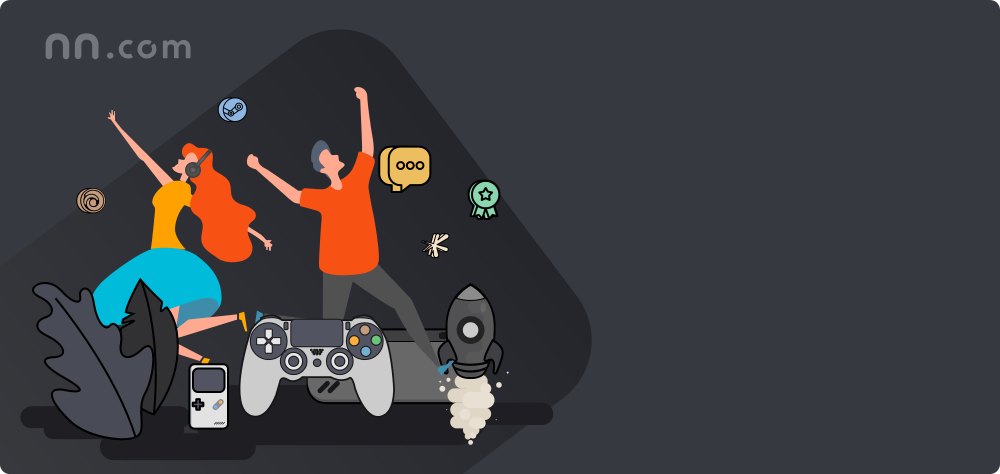
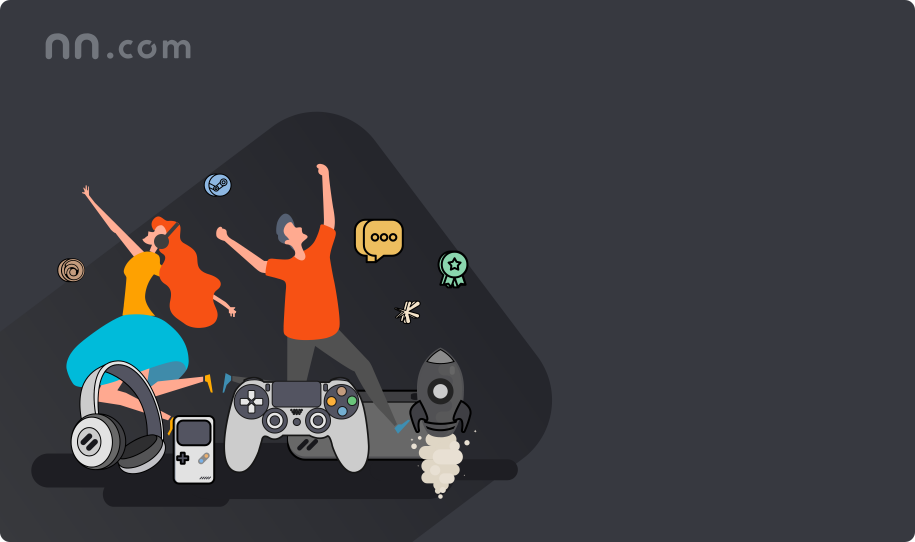
type: update
wc
- nnDialog

page
- signin: 登录弹窗 操作. 背景图替换

diff --git a/components/sign/in.vue b/components/sign/in.vue
@@ -1,6 +1,6 @@
 <template lang="pug">
 #sign-in
-  h2.title NN运营中心
+  h2.title 用户登录
   form.form.mt-2(novalidate role="form" ref="form")
     .form-contrl
       label(for="phone")
@@ -29,22 +29,18 @@
   .flex.full-width.my-2.space-between
     nn-checkbox(v-model="remember") 记住我
     nn-checkbox(v-model="autologin") 自动登录
-  nn-btn.block(@click="login") 登录
+  el-button.block(@click="login" type="primary") 登录
 </template>
 <script>
 import { mapActions } from 'vuex'
 import Phone from '~/assets/icons/phone.svg'
 import Lock from '~/assets/icons/lock.svg'
-import nnCheckbox from '~/components/wc/nnCheckbox'
-import nnBtn from '~/components/wc/nnButton'
 
 export default {
   name: 'SignIn',
   components: {
     Phone,
     Lock,
-    [nnCheckbox.name]: nnCheckbox,
-    [nnBtn.name]: nnBtn,
   },
   data() {
     return {
@@ -65,7 +61,7 @@ export default {
       await this.getUser()
       await this.getCommunityGroup()
       await this.getFriendsGroup()
-      this.$parent.close()
+      this.$parent.closeDialog()
       this.$router.push({ name: 'me' }, this.$nuxt.$loading.finish)
     },
     ...mapActions(['getUser', 'getCommunityGroup', 'getFriendsGroup']),
@@ -80,6 +76,9 @@ export default {
   align-items: center;
   .title {
     user-select: none;
+  }
+  .block {
+    width: 100%;
   }
 }
 </style>

diff --git a/styles/components/_dialog.scss b/styles/components/_dialog.scss
@@ -11,32 +11,19 @@
   justify-content: center;
   z-index: 99;
   background: rgba(0, 0, 0, 0.4);
-  // .backdrop {
-  //   position: fixed;
-  //   top: 0;
-  //   right: 0;
-  //   bottom: 0;
-  //   left: 0;
-
-  //   // background: rgba(0, 0, 0, 0.4);
-  //   z-index: 9;
-  // }
   &-close {
     position: absolute !important;
-    top: 10px;
-    right: 10px;
-    width: 20px;
-    height: 20px;
-    line-height: 23px;
+    top: 16px;
+    right: 16px;
+    font-size: 32px;
     text-align: center;
     border-radius: 50%;
-    box-shadow: var(--elevation-high);
     cursor: pointer;
     transition: all 0.2s linear;
-    background-color: #72767d;
-    color: #36393f;
+    // background-color: #72767d;
+    background-color: transparent;
+    color: darkgray;
     &:hover {
-      box-shadow: var(--elevation-medium);
       color: white;
     }
   }

diff --git a/pages/index/index.vue b/pages/index/index.vue
@@ -1,8 +1,8 @@
 <template lang="pug">
 main#placehold
   el-button.sign-in(@click="openSignForm") 登录
-  nn-dialog(:open.sync="sign.status" clear)
-    Box(v-if="sign.status" :type="sign.types[sign.status]")
+  nn-dialog(:open.sync="dialog.status" clear)
+    Box(v-if="dialog.status" :type="dialog.types[dialog.status]")
   iframe(src="https://www.nn.com/")
   //- CircleLoader
 </template>
@@ -16,7 +16,7 @@ export default {
   },
   data() {
     return {
-      sign: {
+      dialog: {
         status: 0,
         types: ['', 'SignIn', 'SignUp'],
       },
@@ -24,7 +24,7 @@ export default {
   },
   methods: {
     openSignForm() {
-      this.sign.status = 1
+      this.dialog.status = 1
     },
   },
 }

diff --git a/components/sign/box.vue b/components/sign/box.vue
@@ -19,16 +19,21 @@ export default {
     SignIn,
     SignUp,
   },
+  methods: {
+    closeDialog() {
+      this.$parent.close()
+    },
+  },
 }
 </script>
 <style lang="scss" scoped>
 #box {
-  width: 1000px;
-  height: 474px;
+  width: 915px;
+  height: 542px;
   background-image: url('../../assets/imgs/sign_bg.png');
   background-position: center;
   background-size: cover;
-  padding: 64px;
+  padding: 60px 30px;
   display: flex;
   align-items: flex-start;
   justify-content: flex-end;

diff --git a/components/wc/nnDialog.vue b/components/wc/nnDialog.vue
@@ -1,6 +1,6 @@
 <template lang="pug">
 .nn-dialog(v-if="open" ref="dialog")
-  .nn-dialog-content(ref="con" :open="open")
+  .nn-dialog-content(ref="con")
     .icon.nn-dialog-close(v-if="!noClose" @click="close")
       i.bx.bx-x
     header.nn-dialog-header(v-if="!clear")
